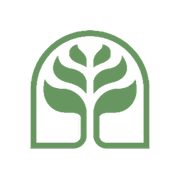
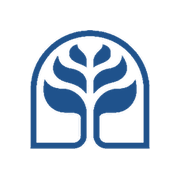
Add files via upload

Changed region(s): [[0.1667, 0.1667, 0.8333, 0.8333]]

diff --git a/index.html b/index.html
@@ -4,12 +4,13 @@
 <meta charset="utf-8">
 <meta name="viewport" content="width=device-width, initial-scale=1">
 <title>Plataforma Agroclimática · Exportadora Los Olmos</title>
+<meta name="app-version" content="3.0">
 <meta name="app-build" content="2026-08-06-01">
-<meta name="theme-color" content="#2C7A46">
+<meta name="theme-color" content="#1B4F8A">
 <meta name="description" content="Grados-día y eventos de helada de la red de estaciones de Exportadora Los Olmos.">
 <link rel="manifest" href="./manifest.webmanifest">
-<link rel="apple-touch-icon" href="./apple-touch-icon.png">
-<link rel="icon" href="./icon-192.png">
+<link rel="apple-touch-icon" href="./apple-touch-icon.png?v=2">
+<link rel="icon" href="./icon-192.png?v=2">
 <meta name="apple-mobile-web-app-capable" content="yes">
 <meta name="apple-mobile-web-app-status-bar-style" content="default">
 <meta name="apple-mobile-web-app-title" content="Agroclima Olmos">
@@ -635,6 +636,25 @@ tbody tr:hover td{background:var(--g-xl)}
   .card{border-radius:13px}
 }
 
+/* ══ VERSIÓN ══ */
+.verbtn{width:calc(100% - 24px);margin:0 12px 8px;display:flex;align-items:center;gap:10px;
+  background:rgba(255,255,255,.06);border:1px solid rgba(255,255,255,.12);border-radius:10px;
+  padding:9px 12px;cursor:pointer;transition:all .18s var(--ease);font-family:"Inter",sans-serif}
+.verbtn:hover{background:rgba(255,255,255,.12);border-color:rgba(255,255,255,.2)}
+.verbtn .vtag{font-family:"IBM Plex Mono",monospace;font-size:12px;font-weight:700;color:#8FD6A4;
+  background:rgba(143,214,164,.14);border-radius:6px;padding:3px 8px;flex:0 0 auto}
+.verbtn .vlb{font-size:11.5px;color:#8FB79C;text-align:left;line-height:1.2}
+.side.mini .verbtn{justify-content:center;width:calc(100% - 12px);margin:0 6px 8px;padding:9px 0}
+.verchip{cursor:pointer;transition:all .18s var(--ease)}
+.verchip:hover{border-color:#B9D3E4;background:#F4F9FC}
+.vergrid{display:grid;grid-template-columns:1fr 1fr;gap:10px;margin:14px 0}
+.vergrid div{background:var(--bg);border:1px solid var(--line);border-radius:10px;padding:11px 13px}
+.vergrid .l{font-family:"IBM Plex Mono",monospace;font-size:9px;letter-spacing:.14em;
+  text-transform:uppercase;color:var(--mut2)}
+.vergrid .v{font-size:14px;font-weight:600;margin-top:3px}
+.vernota{display:flex;gap:11px;align-items:flex-start;padding:9px 0;border-bottom:1px solid #F1F4F0;font-size:12.5px;line-height:1.5}
+.vernota:last-child{border-bottom:0}
+.vernota i{font-style:normal;flex:0 0 18px;text-align:center}
 /* ══ ERRORES / CARGA ══ */
 #errbar{position:fixed;left:14px;right:14px;bottom:14px;z-index:3000;background:#8C3020;color:#fff;
   border-radius:12px;padding:13px 16px;display:flex;gap:12px;align-items:center;flex-wrap:wrap;
@@ -939,6 +959,10 @@ body.modalopen{overflow:hidden}
       <svg width="17" height="17" viewBox="0 0 24 24" fill="none" stroke="#2C7A46" stroke-width="1.8"
         stroke-linecap="round" stroke-linejoin="round"><rect x="6" y="2" width="12" height="20" rx="2.5"/><path d="M11 18h2"/></svg>
       <span class="lb2">Instalar app en el celular</span></button>
+    <button class="verbtn" id="btnVer" title="Ver detalle de la versión">
+      <span class="vtag">v<span class="verTxt">—</span></span>
+      <span class="vlb lb2">Plataforma Climática</span>
+    </button>
     <div class="helpcard">
       <svg width="22" height="22" viewBox="0 0 24 24" fill="none" stroke="#2C7A46" stroke-width="1.7"
         stroke-linecap="round"><path d="M4 14v-3a8 8 0 0 1 16 0v3"/><rect x="2" y="13" width="4" height="7" rx="1.6"/><rect x="18" y="13" width="4" height="7" rx="1.6"/><path d="M20 20v1a3 3 0 0 1-3 3h-3"/></svg>
@@ -974,6 +998,10 @@ body.modalopen{overflow:hidden}
           <span><span class="l">App actualizada al</span><span class="v stampTxt">—</span></span></div>
         <div class="chipbox"><svg width="17" height="17" viewBox="0 0 24 24" fill="none" stroke="#2E6B8F" stroke-width="1.8"><ellipse cx="12" cy="6" rx="8" ry="3"/><path d="M4 6v6c0 1.7 3.6 3 8 3s8-1.3 8-3V6M4 12v6c0 1.7 3.6 3 8 3s8-1.3 8-3v-6"/></svg>
           <span><span class="l">Datos actualizados al</span><span class="v lastTxt">—</span></span></div>
+        <div class="chipbox verchip" id="verChip" title="Ver detalle de la versión">
+          <svg width="17" height="17" viewBox="0 0 24 24" fill="none" stroke="#1B4F8A" stroke-width="1.8"
+            stroke-linecap="round" stroke-linejoin="round"><path d="M12 3l8 4v5c0 4.5-3.2 8.3-8 9-4.8-.7-8-4.5-8-9V7z"/><path d="M9 12l2 2 4-4"/></svg>
+          <span><span class="l">Versión</span><span class="v verTxt">—</span></span></div>
         <button class="iconbtn" id="btnCfg" title="Configurar estaciones visibles" aria-label="Configuración">
           <svg width="21" height="21" viewBox="0 0 24 24" fill="none" stroke="#2C7A46" stroke-width="1.8"
             stroke-linecap="round" stroke-linejoin="round"><circle cx="12" cy="12" r="3.2"/>
@@ -1249,15 +1277,43 @@ body.modalopen{overflow:hidden}
       </div>
     </div>
 
-    <div class="grid g3 mb16">
-      <div class="kpi hl"><div class="ki"><svg width="21" height="21" viewBox="0 0 24 24" fill="none" stroke="#2C7A46" stroke-width="1.8"
+    <div class="grid g4 mb16">
+      <div class="kpi hl"><div class="ki"><svg width="20" height="20" viewBox="0 0 24 24" fill="none" stroke="#2C7A46" stroke-width="1.8"
         stroke-linecap="round" stroke-linejoin="round"><path d="M12 21c4-2 7-5.5 7-10a7 7 0 0 0-14 0c0 4.5 3 8 7 10z"/><path d="M12 21V8"/></svg></div>
-        <div><div class="kl">Grados-día acumulados</div><div class="kv" id="kAcum">—</div><div class="ks" id="kAcumS">—</div></div></div>
-      <div class="kpi warn"><div class="ki"><svg width="21" height="21" viewBox="0 0 24 24" fill="none" stroke="#E0A73C" stroke-width="1.8"
+        <div><div class="kl">GDD acumulados <span id="kY1">—</span></div><div class="kv" id="kAcum">—</div><div class="ks" id="kAcumS">—</div></div></div>
+      <div class="kpi warn"><div class="ki"><svg width="20" height="20" viewBox="0 0 24 24" fill="none" stroke="#E0A73C" stroke-width="1.8"
         stroke-linecap="round"><circle cx="12" cy="12" r="4"/><path d="M12 2v2M12 20v2M2 12h2M20 12h2M5 5l1.5 1.5M17.5 17.5L19 19M19 5l-1.5 1.5M6.5 17.5L5 19"/></svg></div>
-        <div><div class="kl">Promedio diario</div><div class="kv" id="kRate">—</div><div class="ks">Promedio del período</div></div></div>
-      <div class="kpi blue"><div class="ki"><svg width="21" height="21" viewBox="0 0 24 24" fill="none" stroke="#2E6B8F" stroke-width="1.8"><rect x="3" y="5" width="18" height="16" rx="2"/><path d="M3 10h18M8 3v4M16 3v4"/></svg></div>
+        <div><div class="kl">Promedio diario</div><div class="kv" id="kRate">—</div><div class="ks" id="kRateS">Promedio del período</div></div></div>
+      <div class="kpi warn"><div class="ki"><svg width="20" height="20" viewBox="0 0 24 24" fill="none" stroke="#E0A73C" stroke-width="1.8" stroke-linecap="round"><path d="M3 17l6-6 4 4 7-8"/><path d="M21 7h-5M21 7v5"/></svg></div>
+        <div><div class="kl">Variación vs. temporada anterior</div><div class="kv" id="kVar">—</div><div class="ks" id="kVarS">—</div></div></div>
+      <div class="kpi blue"><div class="ki"><svg width="20" height="20" viewBox="0 0 24 24" fill="none" stroke="#2E6B8F" stroke-width="1.8"><rect x="3" y="5" width="18" height="16" rx="2"/><path d="M3 10h18M8 3v4M16 3v4"/></svg></div>
         <div><div class="kl">Período analizado</div><div class="kv" id="kDays">—</div><div class="ks" id="kDaysS">—</div></div></div>
+    </div>
+
+    <div class="grid g3 mb16">
+      <div class="estcard" id="gEstCard"></div>
+      <div class="card">
+        <div class="chead">
+          <div><h3>GDD base 4,5 °C por temporada</h3><p>Acumulado en el mismo período de cada temporada</p></div>
+          <div class="ptools">
+            <button class="gh" onclick="ampliarTabla('gTab45Table','GDD base 4,5 °C por temporada')">⤢ Ampliar</button>
+            <button class="gh" onclick="descargarTabla('gTab45Table','GDD base 4,5 °C por temporada')">↓ Descargar imagen</button>
+          </div>
+        </div>
+        <div class="tscroll"><table class="matrix mini" id="gTab45Table"><thead><tr><th>Temporada</th><th id="gThEst">Estación</th><th>Promedio red</th></tr></thead>
+          <tbody id="gTab45"></tbody></table></div>
+      </div>
+      <div class="card">
+        <div class="chead">
+          <div><h3>GDD base 10 °C por temporada</h3><p>Acumulado en el mismo período de cada temporada</p></div>
+          <div class="ptools">
+            <button class="gh" onclick="ampliarTabla('gTab10Table','GDD base 10 °C por temporada')">⤢ Ampliar</button>
+            <button class="gh" onclick="descargarTabla('gTab10Table','GDD base 10 °C por temporada')">↓ Descargar imagen</button>
+          </div>
+        </div>
+        <div class="tscroll"><table class="matrix mini" id="gTab10Table"><thead><tr><th>Temporada</th><th id="gThEst2">Estación</th><th>Promedio red</th></tr></thead>
+          <tbody id="gTab10"></tbody></table></div>
+      </div>
     </div>
 
     <div class="card mb16">
@@ -2077,6 +2133,42 @@ body.modalopen{overflow:hidden}
   </div>
 </div>
 
+<div id="vermodal" class="ovl hide">
+  <div class="obox" style="max-width:520px">
+    <div class="ohead">
+      <div><h3>Plataforma Climática</h3><p>Exportadora Los Olmos · Departamento Técnico</p></div>
+      <button class="gh" id="verX">✕</button>
+    </div>
+    <div class="obody">
+      <div style="display:flex;align-items:center;gap:14px">
+        <img id="verIcon" alt="" style="width:56px;height:56px;border-radius:14px">
+        <div><div style="font-size:30px;font-weight:700;letter-spacing:-.03em;line-height:1">
+          Versión <span class="verTxt">—</span></div>
+          <div class="hint" style="margin-top:3px">Aplicación web instalable · funciona sin conexión</div></div>
+      </div>
+      <div class="vergrid">
+        <div><div class="l">App actualizada al</div><div class="v stampTxt">—</div></div>
+        <div><div class="l">Datos actualizados al</div><div class="v lastTxt">—</div></div>
+        <div><div class="l">Estaciones activas</div><div class="v" id="verEst">—</div></div>
+        <div><div class="l">Temporadas cargadas</div><div class="v" id="verTemp">—</div></div>
+      </div>
+      <span class="eyebrow">Qué trae esta versión</span>
+      <div style="margin-top:9px">
+        <div class="vernota"><i>📊</i><span>Reporte de <b>Grados-Día</b> con panel por estación, comparación entre temporadas y acumulado semanal por semana agrícola.</span></div>
+        <div class="vernota"><i>❄</i><span><b>Horas frío base 7,2 °C y porciones de frío</b>, con día de corte ajustable y déficit o superávit entre temporadas.</span></div>
+        <div class="vernota"><i>🌡</i><span><b>Eventos de helada</b> por estación y el reporte de heladas por comuna de Cogrowers.</span></div>
+        <div class="vernota"><i>🗺</i><span><b>Mapa de estaciones</b> sobre satélite con la calidad de los datos horarios de cada una.</span></div>
+        <div class="vernota"><i>✍</i><span><b>Carga manual</b> de registros diarios, heladas y estaciones nuevas.</span></div>
+        <div class="vernota"><i>📱</i><span>Instalable en el celular, con aviso automático cuando hay una versión más reciente.</span></div>
+      </div>
+    </div>
+    <div class="ofoot">
+      <span class="hint" style="flex:1">Desarrollada por el Departamento Técnico</span>
+      <button class="btn" id="verOk">Cerrar</button>
+    </div>
+  </div>
+</div>
+
 <div id="sopmodal" class="ovl hide">
   <div class="obox">
     <div class="ohead">
@@ -2889,17 +2981,109 @@ function renderGdd(){
     const promD=stats.reduce((a,c)=>a+c.gd,0)/stats.length;
     set('kAcum',nf(prom,0)+'<small>°D</small>',`Promedio de ${stats.length} estaciones · base ${b.lbl}`);
     set('kRate',nf(promD,1)+'<small>°D/día</small>');
-    const rate=document.getElementById('kRate').parentElement.querySelector('.ks');
-    if(rate)rate.textContent='Promedio diario del grupo';
+    set('kRate',nf(promD,1)+'<small>°D/día</small>','Promedio diario del grupo');
   }else if(mine){
     set('kAcum',nf(mine.gdd,0)+'<small>°D</small>',`${mine.est} · base ${b.lbl}`);
     set('kRate',nf(mine.gd,1)+'<small>°D/día</small>');
-    const rate=document.getElementById('kRate').parentElement.querySelector('.ks');
-    if(rate)rate.textContent='Promedio del período';
+    set('kRate',nf(mine.gd,1)+'<small>°D/día</small>','Promedio del período');
   }else{set('kAcum','—','Sin datos');set('kRate','—');}
   set('kDays',days(S.from,S.to)+'<small>días</small>',`${fmtL(S.from)} → ${fmtL(S.to)}`);
+  panelEstacionGdd(foco,sel,stats);
   chartCurva(sel,foco); chartSemana(sel); cmpBoxes(foco);
   chartAnios(sel); tablaAnios(sel); tablaVariacionGdd(sel);
+}
+
+/* ═══ Panel de una estación, al estilo del reporte de frío ═══ */
+function gddTemporada(est,bi,y){
+  /* acumulado de la estación en la misma ventana calendario de la temporada y */
+  const mm=mmddList();
+  const map={};
+  (DATA[est]||[]).forEach(r=>{ if(seasonOf(r[0])===y&&r[bi]!=null) map[r[0].slice(5)]=r[bi]; });
+  let s=0,hay=false;
+  mm.forEach(k=>{ if(map[k]!=null){s+=map[k];hay=true;} });
+  return hay?s:null;
+}
+function gddRed(bi,y,sel){
+  const base=(sel&&sel.length>1)?sel:ESTACIONES;
+  const vs=base.map(e=>gddTemporada(e,bi,y)).filter(v=>v!=null&&v>0);
+  return vs.length?vs.reduce((a,b)=>a+b,0)/vs.length:null;
+}
+function panelEstacionGdd(foco,sel,stats){
+  const card=document.getElementById('gEstCard');
+  const t45=document.getElementById('gTab45'),t10=document.getElementById('gTab10');
+  if(!card||!t45)return;
+  const anios=SEASONS.slice().sort((a,b)=>b-a);
+  const ANT=anios.filter(y=>y<SEASON)[0];
+  const bi=BASES[S.base].i;
+  document.getElementById('kY1').textContent=SEASON+'/'+String(SEASON+1).slice(2);
+  const set=(id,v,s,col)=>{const a=document.getElementById(id);if(!a)return;a.innerHTML=v;
+    if(col!==undefined)a.style.color=col||''; const b=document.getElementById(id+'S'); if(b&&s!=null)b.textContent=s;};
+
+  if(!foco){
+    card.innerHTML='<div class="eyebrow">Estación analizada</div><h3>Sin selección</h3>';
+    t45.innerHTML='<tr><td colspan="3" class="empty">Marca una estación.</td></tr>';
+    t10.innerHTML='<tr><td colspan="3" class="empty">Marca una estación.</td></tr>';
+    set('kVar','—','Sin estación seleccionada','');
+    return;
+  }
+  document.getElementById('gThEst').textContent=foco;
+  document.getElementById('gThEst2').textContent=foco;
+
+  /* variación de la temporada actual contra la anterior, mismo período */
+  const act=gddTemporada(foco,bi,SEASON), ant=ANT!=null?gddTemporada(foco,bi,ANT):null;
+  const v=(act!=null&&ant)?((act-ant)/ant*100):null;
+  set('kVar',v==null?'—':(v>=0?'▲ ':'▼ ')+nf(Math.abs(v),1)+'<small>%</small>',
+    ant?`${ANT}/${String(ANT+1).slice(2)}: ${nf(ant,0)} °D`:'Sin registro en la temporada anterior',
+    v==null?'':(v>=0?'#1E5B33':'#A33A28'));
+
+  /* ficha verde */
+  const co=COORDS[foco]||[];
+  const conDato=anios.filter(y=>gddTemporada(foco,bi,y)!=null).length;
+  const a45=gddTemporada(foco,1,SEASON), a10=gddTemporada(foco,2,SEASON);
+  card.innerHTML=`
+    <div class="eyebrow">Estación analizada</div><h3>${foco}</h3>
+    <div class="li" style="margin-top:2px">📍 Región de O’Higgins · ${co[2]??'—'} msnm · ${co[0]!=null?co[0].toFixed(2)+' / '+co[1].toFixed(2):'sin coordenadas'}</div>
+    <div class="grid2b">
+      <div class="bx"><div class="l">GDD base 4,5 °C</div><div class="v">${a45!=null?nf(a45,0):'—'}</div></div>
+      <div class="bx"><div class="l">GDD base 10 °C</div><div class="v">${a10!=null?nf(a10,0):'—'}</div></div>
+      <div class="bx"><div class="l">Temporadas con dato</div><div class="v">${conDato}</div></div>
+      <div class="bx"><div class="l">Días del período</div><div class="v">${days(S.from,S.to)}</div></div>
+    </div>
+    <div class="minimap" id="gMini"></div>`;
+  miniMapaGdd(foco,co);
+
+  /* tablas por temporada, una por base térmica */
+  const tabla=(col)=>{
+    const filas=anios.map(y=>{
+      const val=gddTemporada(foco,col,y), red=gddRed(col,y,sel);
+      return `<tr${y===SEASON?' style="background:var(--g-xl)"':''}>
+        <td style="text-align:left;font-weight:600">${y}/${String(y+1).slice(2)}${y===SEASON?' <span style="font-weight:400;color:var(--mut2)">actual</span>':''}</td>
+        <td>${val!=null?'<b>'+nf(val,0)+'</b>':'<span class="sinreg">Sin datos</span>'}</td>
+        <td>${red!=null?nf(red,0):'—'}</td></tr>`;
+    }).join('');
+    const va=anios.map(y=>gddTemporada(foco,col,y)).filter(x=>x!=null);
+    const vr=anios.map(y=>gddRed(col,y,sel)).filter(x=>x!=null);
+    const pa=va.length?va.reduce((a,b)=>a+b,0)/va.length:null;
+    const pr=vr.length?vr.reduce((a,b)=>a+b,0)/vr.length:null;
+    return filas+`<tr class="tot"><td style="text-align:left">Promedio</td>
+      <td>${pa!=null?nf(pa,0):'—'}</td><td>${pr!=null?nf(pr,0):'—'}</td></tr>`;
+  };
+  t45.innerHTML=tabla(1);
+  t10.innerHTML=tabla(2);
+}
+let gmini=null;
+function miniMapaGdd(est,co){
+  if(co[0]==null||!window.L)return;
+  const el=document.getElementById('gMini'); if(!el)return;
+  try{
+    if(gmini){gmini.remove();gmini=null;}
+    gmini=L.map(el,{zoomControl:false,attributionControl:false,dragging:false,scrollWheelZoom:false,
+      doubleClickZoom:false,boxZoom:false,keyboard:false,tap:false}).setView([co[0],co[1]],12);
+    L.tileLayer('https://server.arcgisonline.com/ArcGIS/rest/services/World_Imagery/MapServer/tile/{z}/{y}/{x}',{maxZoom:18}).addTo(gmini);
+    L.circleMarker([co[0],co[1]],{radius:8,fillColor:'#fff',color:'#2C7A46',weight:3,fillOpacity:1}).addTo(gmini)
+      .bindTooltip(est,{permanent:true,direction:'top',className:'minitip'});
+    setTimeout(()=>gmini.invalidateSize(),120);
+  }catch(e){ el.style.display='none'; }
 }
 function mmddList(){
   const out=[],d0=parseD(S.from),d1=parseD(S.to);
@@ -4347,6 +4531,21 @@ document.getElementById('cfgDl').onclick=()=>
   download(new Blob([JSON.stringify({off:[...OFF]},null,2)],{type:'application/json'}),'config.json');
 document.getElementById('cfgAll').onclick=()=>{OFF=new Set();saveCfg();applyCfg();renderCfg();};
 document.getElementById('cfgNone').onclick=()=>{OFF=new Set(allStations());saveCfg();applyCfg();renderCfg();};
+/* versión */
+function abrirVersion(){
+  document.querySelectorAll('.verTxt').forEach(x=>x.textContent=APP_VERSION);
+  const ic=document.getElementById('verIcon'); if(ic)ic.src='./icon-192.png?v=2';
+  const e=document.getElementById('verEst'); if(e)e.textContent=ESTACIONES.length;
+  const t=document.getElementById('verTemp'); if(t)t.textContent=SEASONS.length;
+  document.getElementById('vermodal').classList.remove('hide');
+  document.body.classList.add('modalopen');
+}
+const cerrarVer=()=>{document.getElementById('vermodal').classList.add('hide');
+  document.body.classList.remove('modalopen');};
+['btnVer','verChip'].forEach(id=>{const b=document.getElementById(id); if(b)b.onclick=abrirVersion;});
+document.getElementById('verX').onclick=cerrarVer;
+document.getElementById('verOk').onclick=cerrarVer;
+document.getElementById('vermodal').onclick=e=>{if(e.target.id==='vermodal')cerrarVer();};
 /* soporte */
 const cerrarSop=()=>{document.getElementById('sopmodal').classList.add('hide');document.body.classList.remove('modalopen');};
 document.getElementById('btnSoporte').onclick=e=>{e.preventDefault();
@@ -5124,6 +5323,7 @@ document.getElementById('btnSave').onclick=()=>{
 };
 
 /* ═══ INSTALACIÓN Y ACTUALIZACIONES ═══ */
+const APP_VERSION="3.0";
 const APP_BUILD="2026-08-06-01";
 const isIOS=/iphone|ipad|ipod/i.test(navigator.userAgent)||
   (navigator.platform==='MacIntel'&&navigator.maxTouchPoints>1);
@@ -5237,6 +5437,7 @@ function boot(keep){
   if(!S.fSel.size)S.fSel=new Set([FROST[S.near]?S.near:Object.keys(FROST)[0]]);
   document.getElementById('covSeason').textContent=`${SEASON}/${String(SEASON+1).slice(2)}`;
   document.querySelectorAll('.stampTxt').forEach(x=>x.textContent=fmtL(META.updated));
+  document.querySelectorAll('.verTxt').forEach(x=>x.textContent=APP_VERSION);
   document.querySelectorAll('.lastTxt').forEach(x=>x.textContent=fmtL(DMAX));
   document.getElementById('stEst').innerHTML=ESTACIONES.length+'<small style="font-size:11px;color:var(--mut)"> estaciones</small>';
   document.getElementById('stReg').textContent=ALL_DATES.length.toLocaleString('es-CL');

diff --git a/sw.js b/sw.js
@@ -1,5 +1,5 @@
 /* Service Worker · Plataforma Agroclimática Los Olmos */
-const CACHE = 'olmos-agroclima-v4';
+const CACHE = 'olmos-agroclima-v5';
 const CORE = ['./','./index.html','./datos.json','./config.json','./heladas_comunas.json','./manifest.webmanifest',
   './icon-192.png','./icon-512.png','./apple-touch-icon.png',
   'https://cdnjs.cloudflare.com/ajax/libs/Chart.js/4.4.1/chart.umd.min.js',
